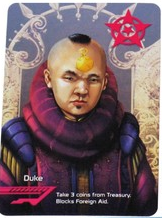
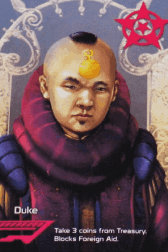
Add inquisitor image
Also,
- rounded card corners
- large version of images
- Update tooltips

diff --git a/web/client.js b/web/client.js
@@ -1020,8 +1020,9 @@ $('document').ready(function() {
     });
 });
 
-function roleImagePath(roleName = "duke") {
-    return "/roles/" + roleName + ".png"
+function roleImagePath(roleName = "duke", size = '') {
+    var sizeSuffix = size && '-' + size
+    return "/roles/" + roleName + sizeSuffix + ".png"
 }
 function roleImageClass(roleName, revealed) {
     var className = "role-card--" + roleName
@@ -1045,7 +1046,7 @@ function roleTooltip(role, revealed) {
         return role + ' - Change cards';
     }
     if (role === 'inquisitor') {
-        return role + ' - Draw one from the deck and exchange OR look at one opponent\'s role and optionally force an exchange';
+        return role + ' - Change 1 card OR see one opponent\'s card';
     }
     if (role === 'assassin') {
         return role + ' - Pay $3 to reveal a player\'s influence';
@@ -1057,7 +1058,7 @@ function roleTooltip(role, revealed) {
         return role + ' - Block assassination';
     }
     if (role === 'duke') {
-        return role + ' - Tax +$3';
+        return role + ' - Draw $3';
     }
     return '';
 }

diff --git a/web/client.css b/web/client.css
@@ -246,6 +246,7 @@ h3 {
 .role-card {
     display: inline-block;
     height: 82px;
+    border-radius: 5px; /* Rounded corners */
 }
 .role-card--revealed {
     opacity: 0.4;
@@ -254,8 +255,11 @@ h3 {
     opacity: 0.6;
 }
 .role-keep, .role-reveal {
+    border-radius: 8px; /* Rounded corners */
     display: inline-block;
     cursor: pointer;
+    height: 210px;
+    margin: 4px;
 }
 .role-reveal:hover {
     opacity: 0.6;
